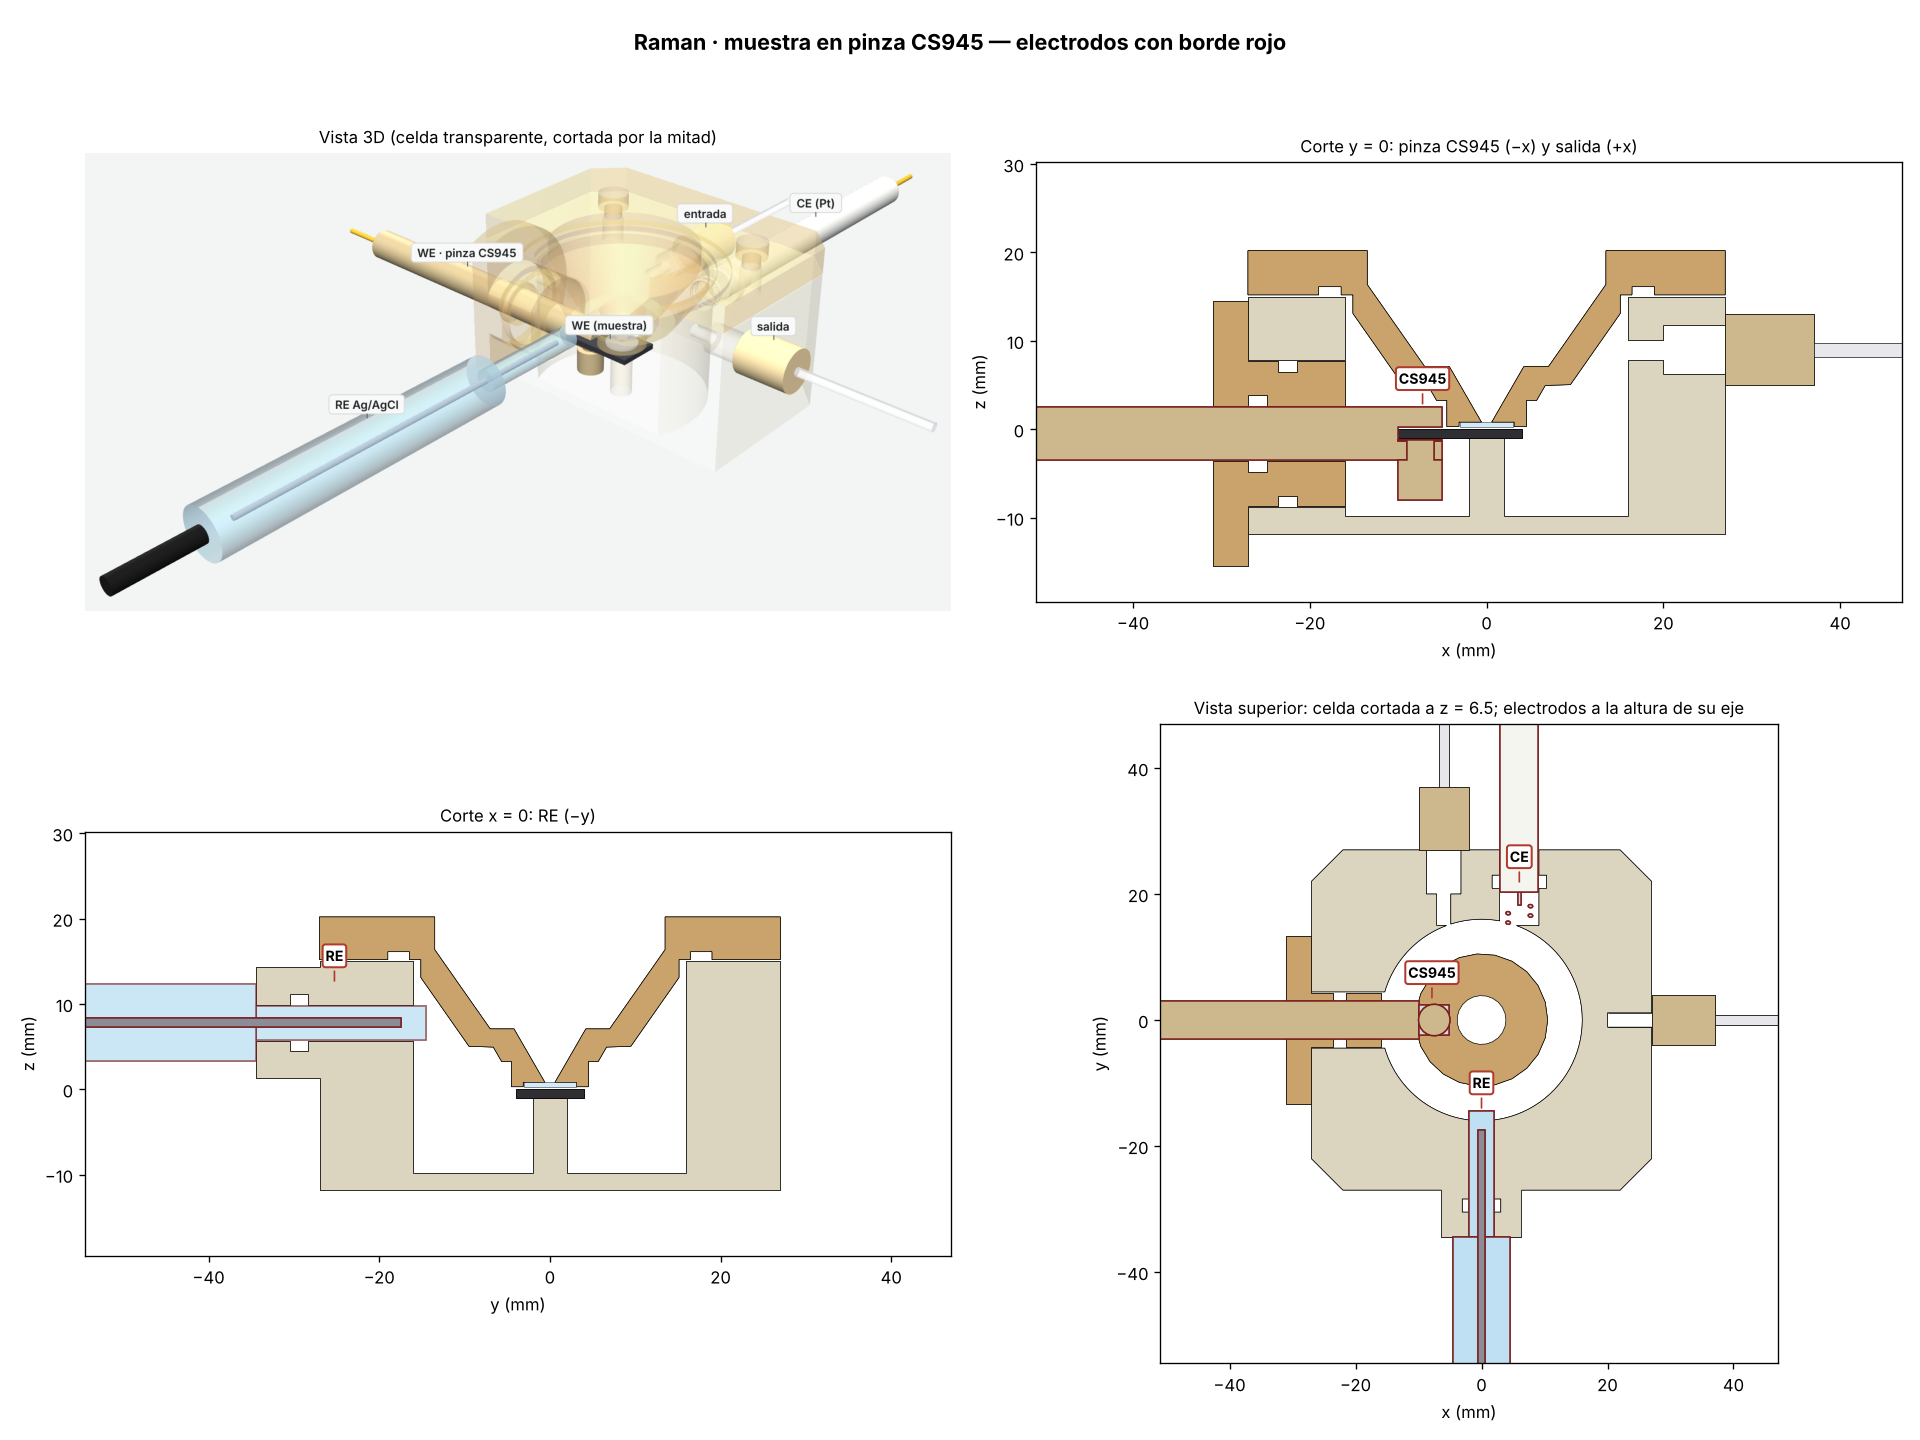
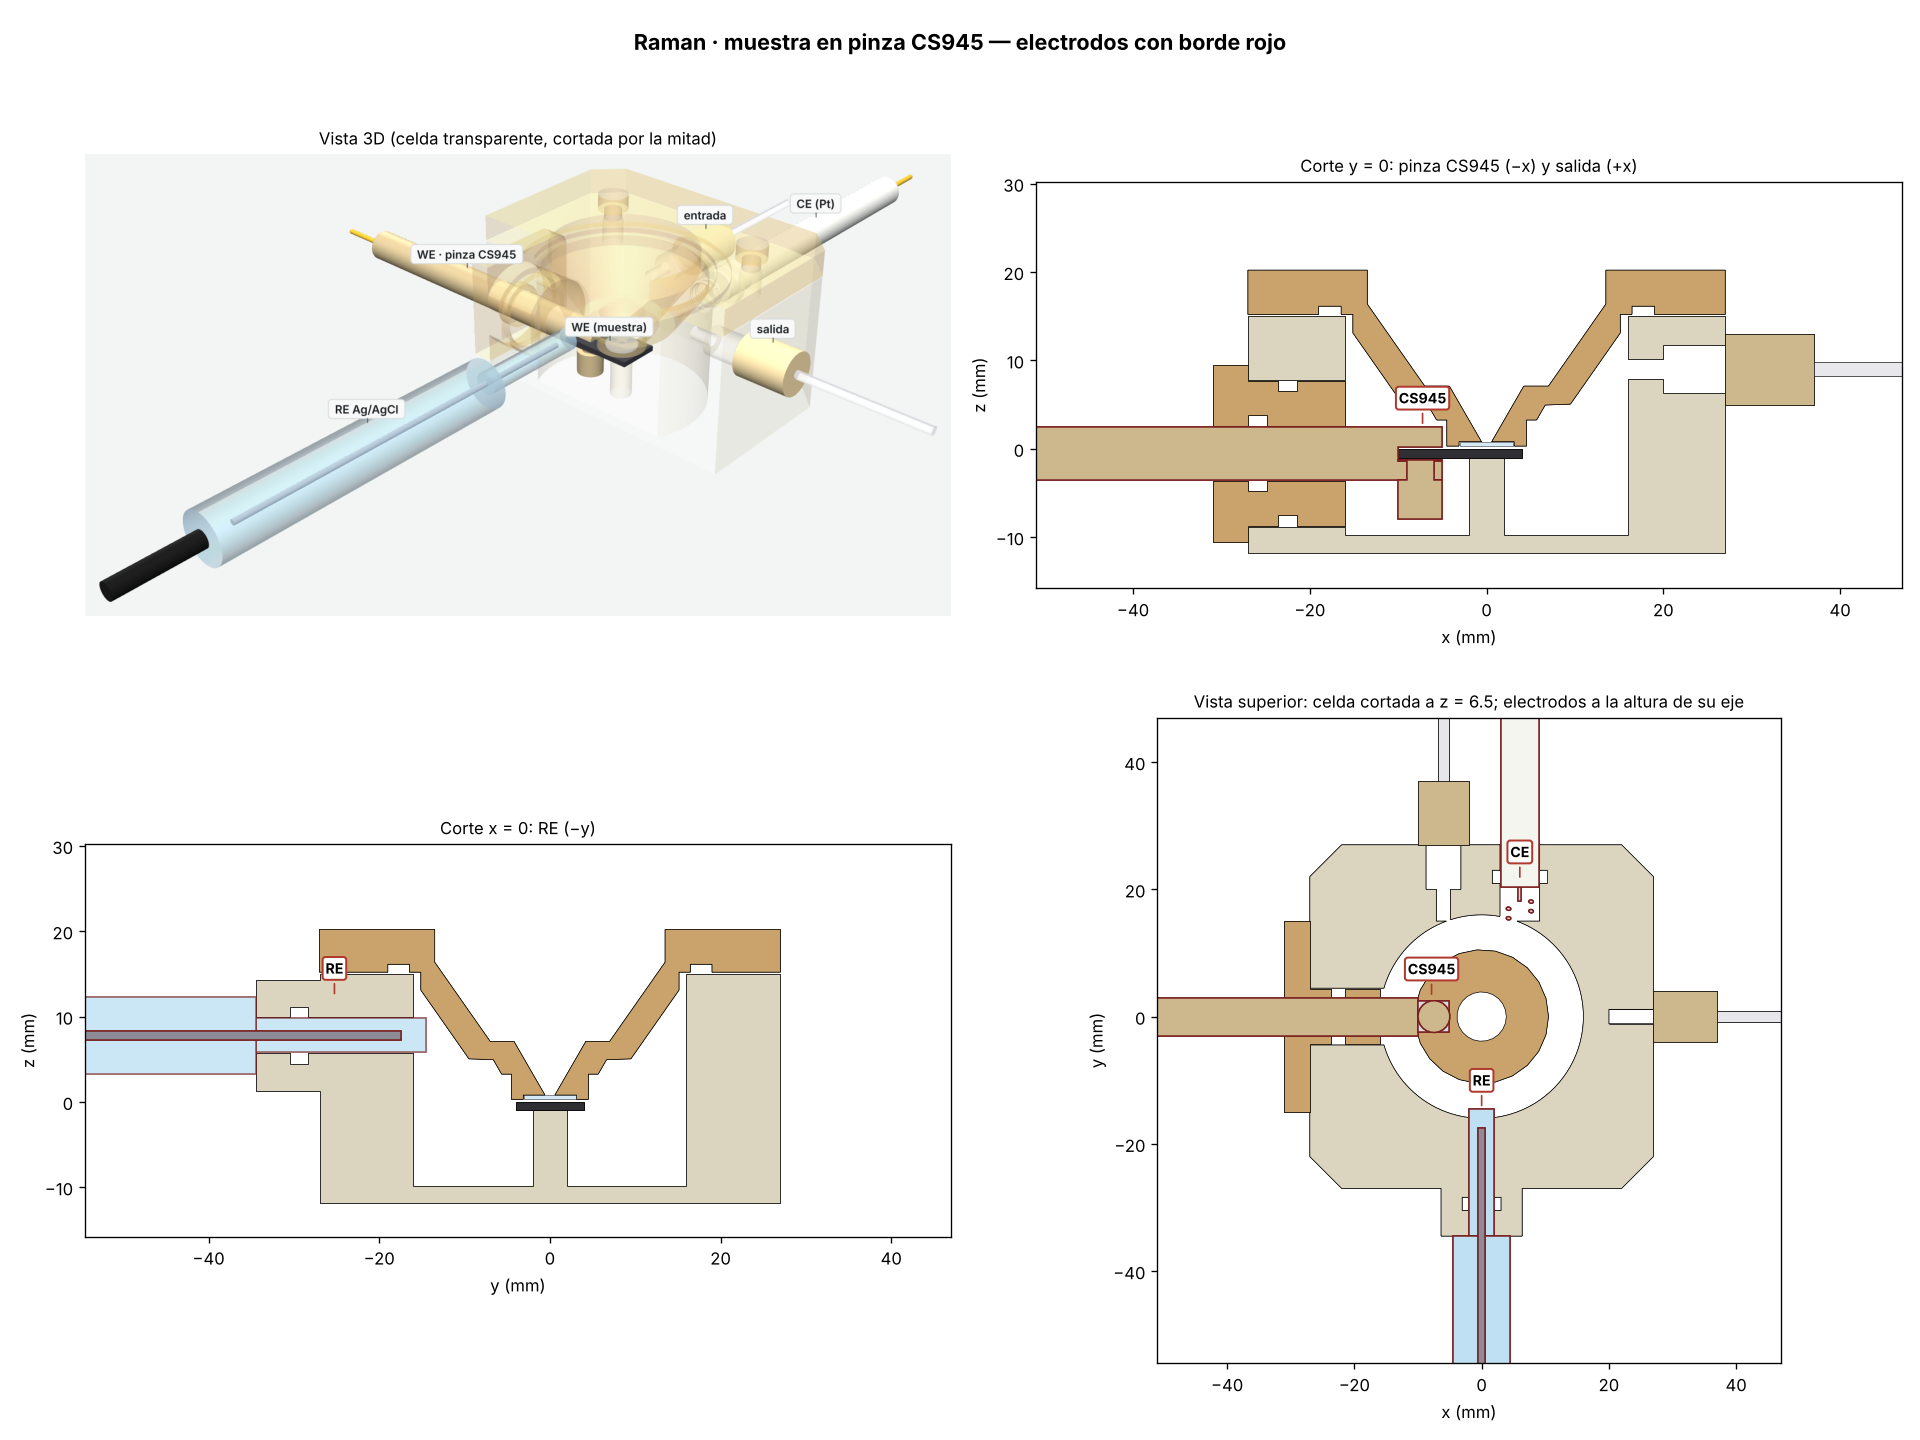
Raman con pinza: brida del tapón rectangular 30x20 para que no baje del apoyo
Añade footing_checks (ninguna pieza de ningún ensamble baja del apoyo de la celda),
dos pruebas y la figura raman_pinza regenerada.

Claude-Session: https://claude.ai/code/session_013vRdYVzFyrSQj1KZPhj3V4

diff --git a/checks/walls.py b/checks/walls.py
@@ -554,6 +554,21 @@ def electrode_checks(p=P, configs=None) -> list[Result]:
     return res
 
 
+def footing_checks(p=P) -> list[Result]:
+    """Cada celda asienta plana: ninguna pieza ni electrodo baja del fondo del cuerpo
+    principal (la primera pieza de cada ensamble)."""
+    from modules import assemblies as A
+
+    res = []
+    for key in A.CONFIGS:
+        parts = A.CONFIGS[key][1](p)
+        support = parts[0][1].BoundingBox().zmin
+        lowest = min(((s.BoundingBox().zmin, n) for n, s, _, _ in parts))
+        res.append(Result(f"{key}: nada baja del apoyo (z = {support:.1f}); "
+                          f"lo más bajo: {lowest[1]}", lowest[0] - support, -1e-3))
+    return res
+
+
 def assembly_access_checks(p=P) -> list[Result]:
     """Montaje: cada electrodo puede LLEGAR a su posición, no sólo caber en ella.
 
@@ -626,7 +641,7 @@ def run(p=P) -> list[Result]:
     return (ring_checks(p) + base_checks(p) + seal_checks(p) + assembly_checks(p)
             + lid_raman_checks(p) + clamp_checks(p) + lid_raman_checks(p, "clamp")
             + xrd_checks(p) + chladni_checks(p) + epd_checks(p) + electrode_checks(p)
-            + assembly_access_checks(p))
+            + assembly_access_checks(p) + footing_checks(p))
 
 
 if __name__ == "__main__":

diff --git a/modules/_geom.py b/modules/_geom.py
@@ -193,8 +193,9 @@ def plug_part(p, spec: dict, r_outer: float, r_inner: float) -> cq.Shape:
     od = plug_bore_d(p) - 2 * P_["fit"]
     x0, x1 = r_inner + 1.0, r_outer
     body = cq.Solid.makeCylinder(od / 2, x1 - x0, cq.Vector(x0, y, z), ax)
-    body = body.fuse(cq.Solid.makeCylinder(P_["flange_d"] / 2, P_["flange_t"],
-                                           cq.Vector(x1, y, z), ax))
+    flange = (cq.Workplane("YZ").rect(P_["flange_w"], P_["flange_h"]).extrude(P_["flange_t"])
+              .edges("|X").fillet(P_["flange_r"]).translate((x1, y, z)).val())
+    body = body.fuse(flange)
     rod = spec.get("rod_d", p.WE_CLAMP["rod_d"])
     body = body.cut(cq.Solid.makeCylinder(p.hole(rod) / 2, x1 + P_["flange_t"] - x0 + 2,
                                           cq.Vector(x0 - 1, y, z), ax))

diff --git a/params.py b/params.py
@@ -349,7 +349,11 @@ LID_RAMAN = {
 PLUG = {
     "clearance": 0.4,        # holgura radial de la cabeza + muestra al pasar por el agujero
     "fit": 0.1,              # holgura radial tapón ↔ agujero
-    "flange_d": 30.0,
+    # brida rectangular: ancha para los dos tornillos laterales y baja para no pasar del apoyo
+    # de la cámara (una brida circular de Ø30 bajaba 3.7 mm de la cara de apoyo)
+    "flange_w": 30.0,        # a lo largo de la cara (horizontal)
+    "flange_h": 20.0,        # vertical
+    "flange_r": 3.0,         # radio de las esquinas
     "flange_t": 4.0,
     "screw_off": 11.5,       # tornillos del tapón a ±screw_off del eje, sobre la cara
     "oring_cs": 1.5,         # MEDIR: O-ring exterior del tapón

diff --git a/tests/test_modules.py b/tests/test_modules.py
@@ -409,3 +409,15 @@ def test_plug_part_is_valid_and_fits_its_bore():
     pl = chamber_clamp.plug()
     assert pl is not None and pl.isValid()
     assert pl.intersect(chamber_clamp.build().val()).Volume() < 1e-3
+
+
+def test_tall_plug_flange_would_stick_out_below_the_cell():
+    """Una brida de 30 mm de alto (como la circular de Ø30) baja del apoyo de la cámara."""
+    p = variant(PLUG={"flange_h": 30.0})
+    bad = [r.name for r in walls.footing_checks(p) if not r.ok]
+    assert any(n.startswith("raman_pinza") for n in bad)
+
+
+def test_every_cell_sits_flat():
+    bad = [str(r) for r in walls.footing_checks() if not r.ok]
+    assert not bad, "\n".join(bad)

diff --git a/README.md b/README.md
@@ -18,7 +18,7 @@ python modules/chladni.py                  # → out/chladni_{wall,bottom,lid,pl
 python sim/chladni_estimate.py             # modos de la placa y acoplamiento del piezo
 python modules/epd.py                      # → out/epd_{base,frame,gasket,cover} + out/epd_mask.dxf
 python sim/epd_dep.py                      # captura DEP por segmento (estimación)
-python checks/walls.py                     # paredes, holguras, sellos e interferencias (277 checks)
+python checks/walls.py                     # paredes, holguras, sellos e interferencias (282 checks)
 python checks/raman_clearance.py           # objetivo y cono de luz vs cada pieza, gap 0.1–0.5
 python checks/xrd_clearance.py             # huella y altura máxima permitida
 python sim/chladni_estimate.py             # modos de la placa-WE

diff --git a/docs/montaje.md b/docs/montaje.md
@@ -31,6 +31,9 @@ Por eso el puerto WE es un **portaelectrodo desmontable**:
    interior (Ø6) y el exterior puestos.
 3. Meter la cabeza con la tira por el agujero de Ø16.6 de la cara −x hasta que la tira apoye en
    el pedestal; asentar el tapón y fijarlo con 2 × M3 a los insertos de la cara.
+   La brida del tapón es rectangular (30 × 20 mm, esquinas R3) y no circular: así no baja del
+   apoyo de la celda, que queda plana sobre la platina (`footing_checks` lo verifica en todas
+   las celdas).
 4. RE y CE como arriba; conectores; llenar; lainas y tapa Raman.
 
 ## XRD (`chamber_xrd` + `lid_xrd`)
